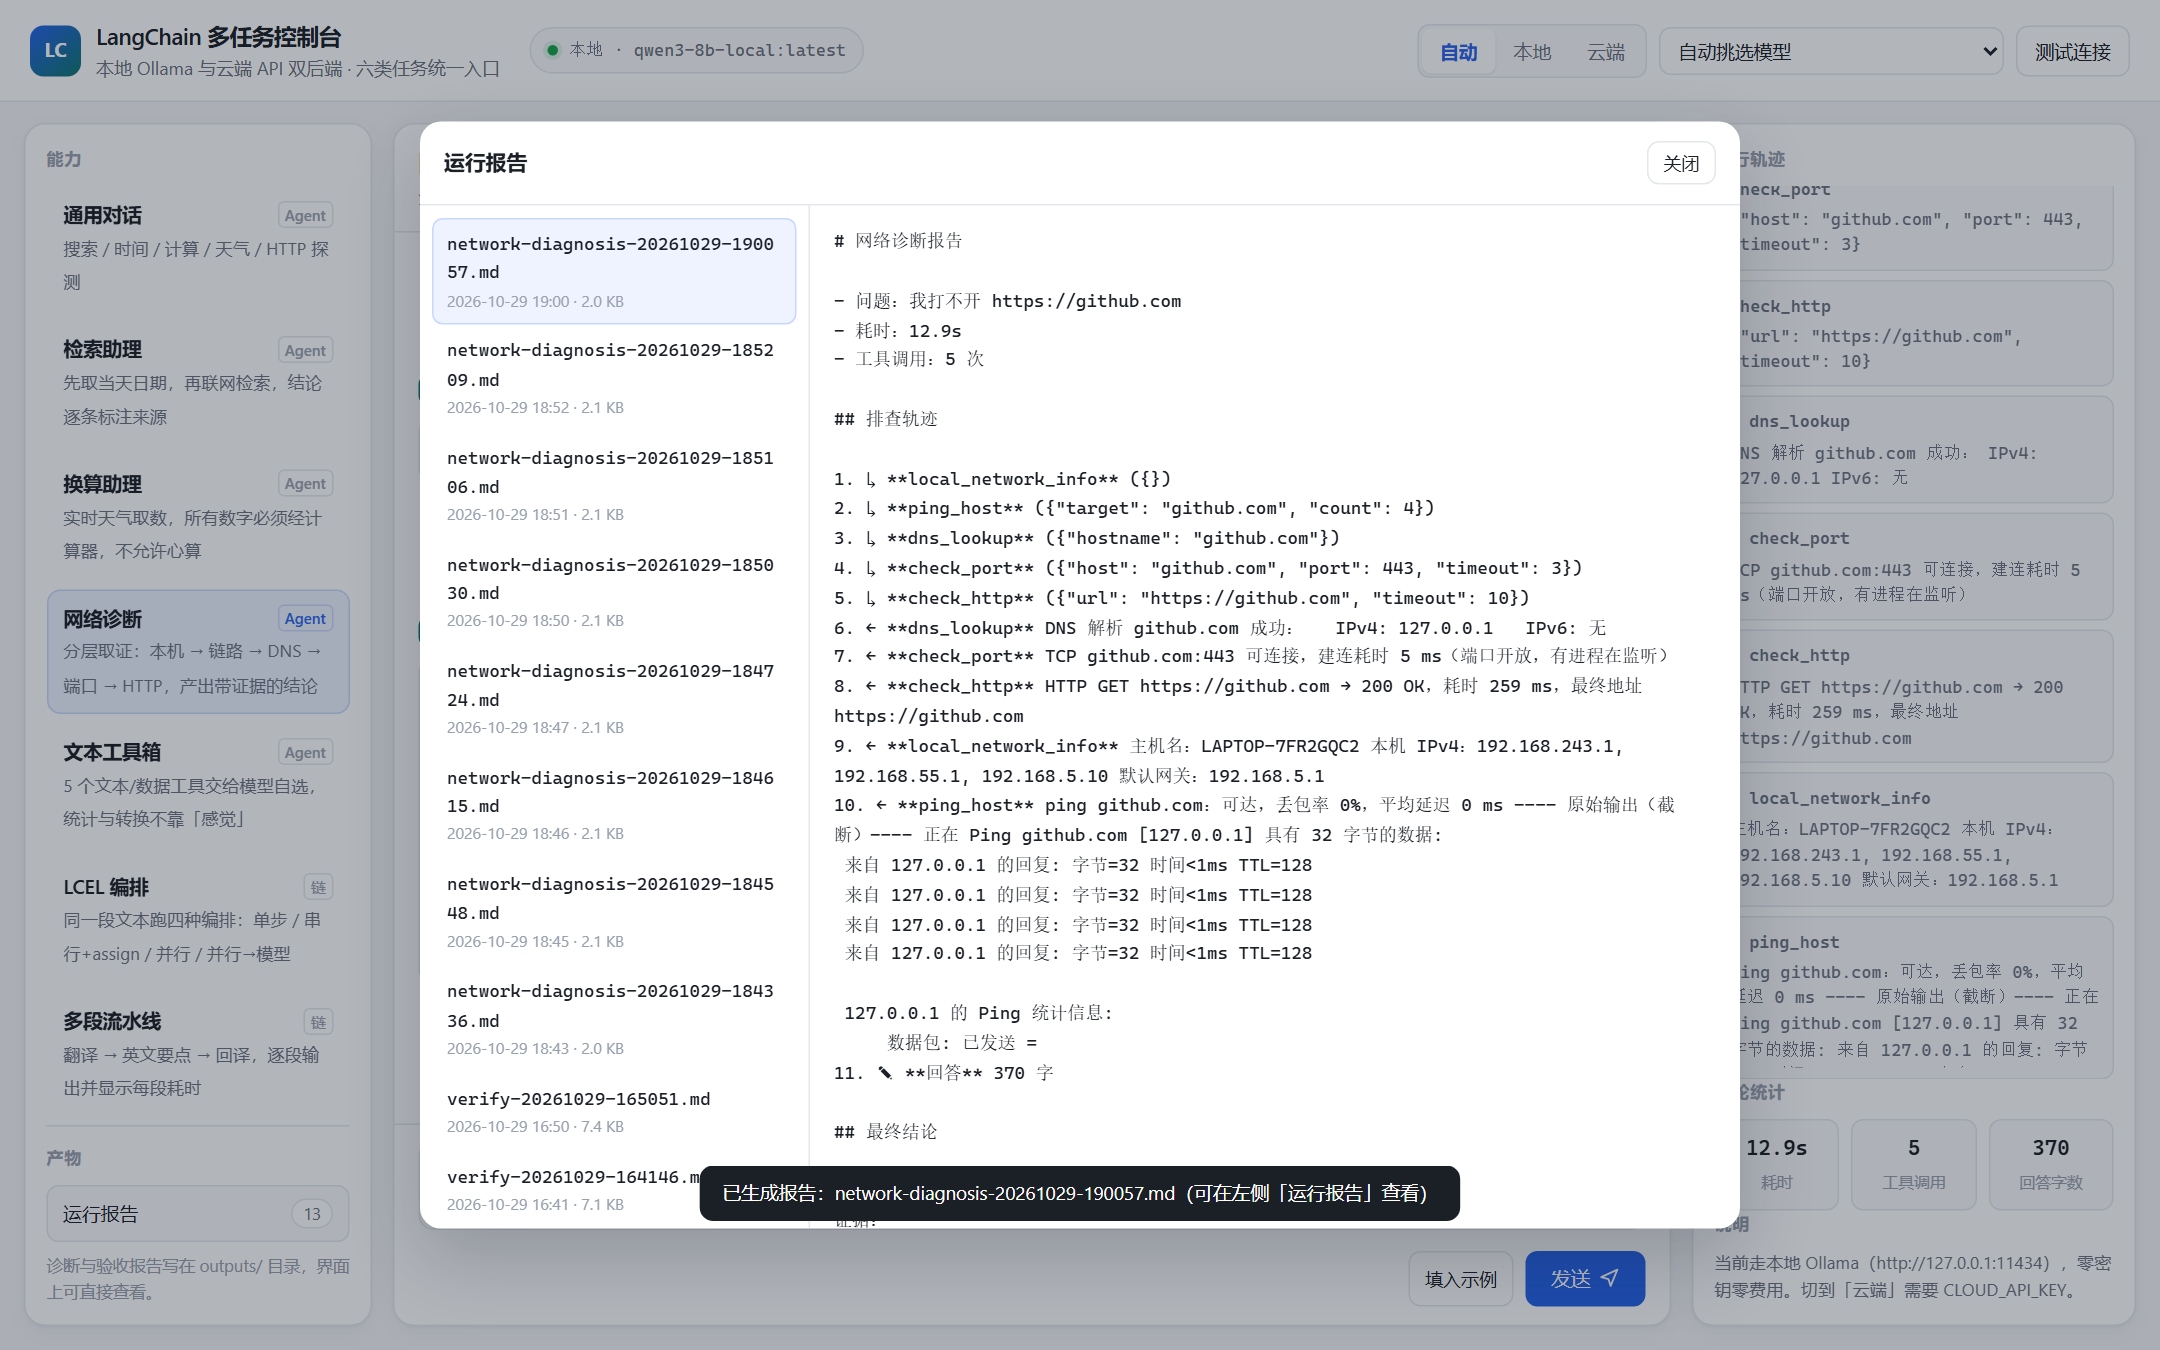
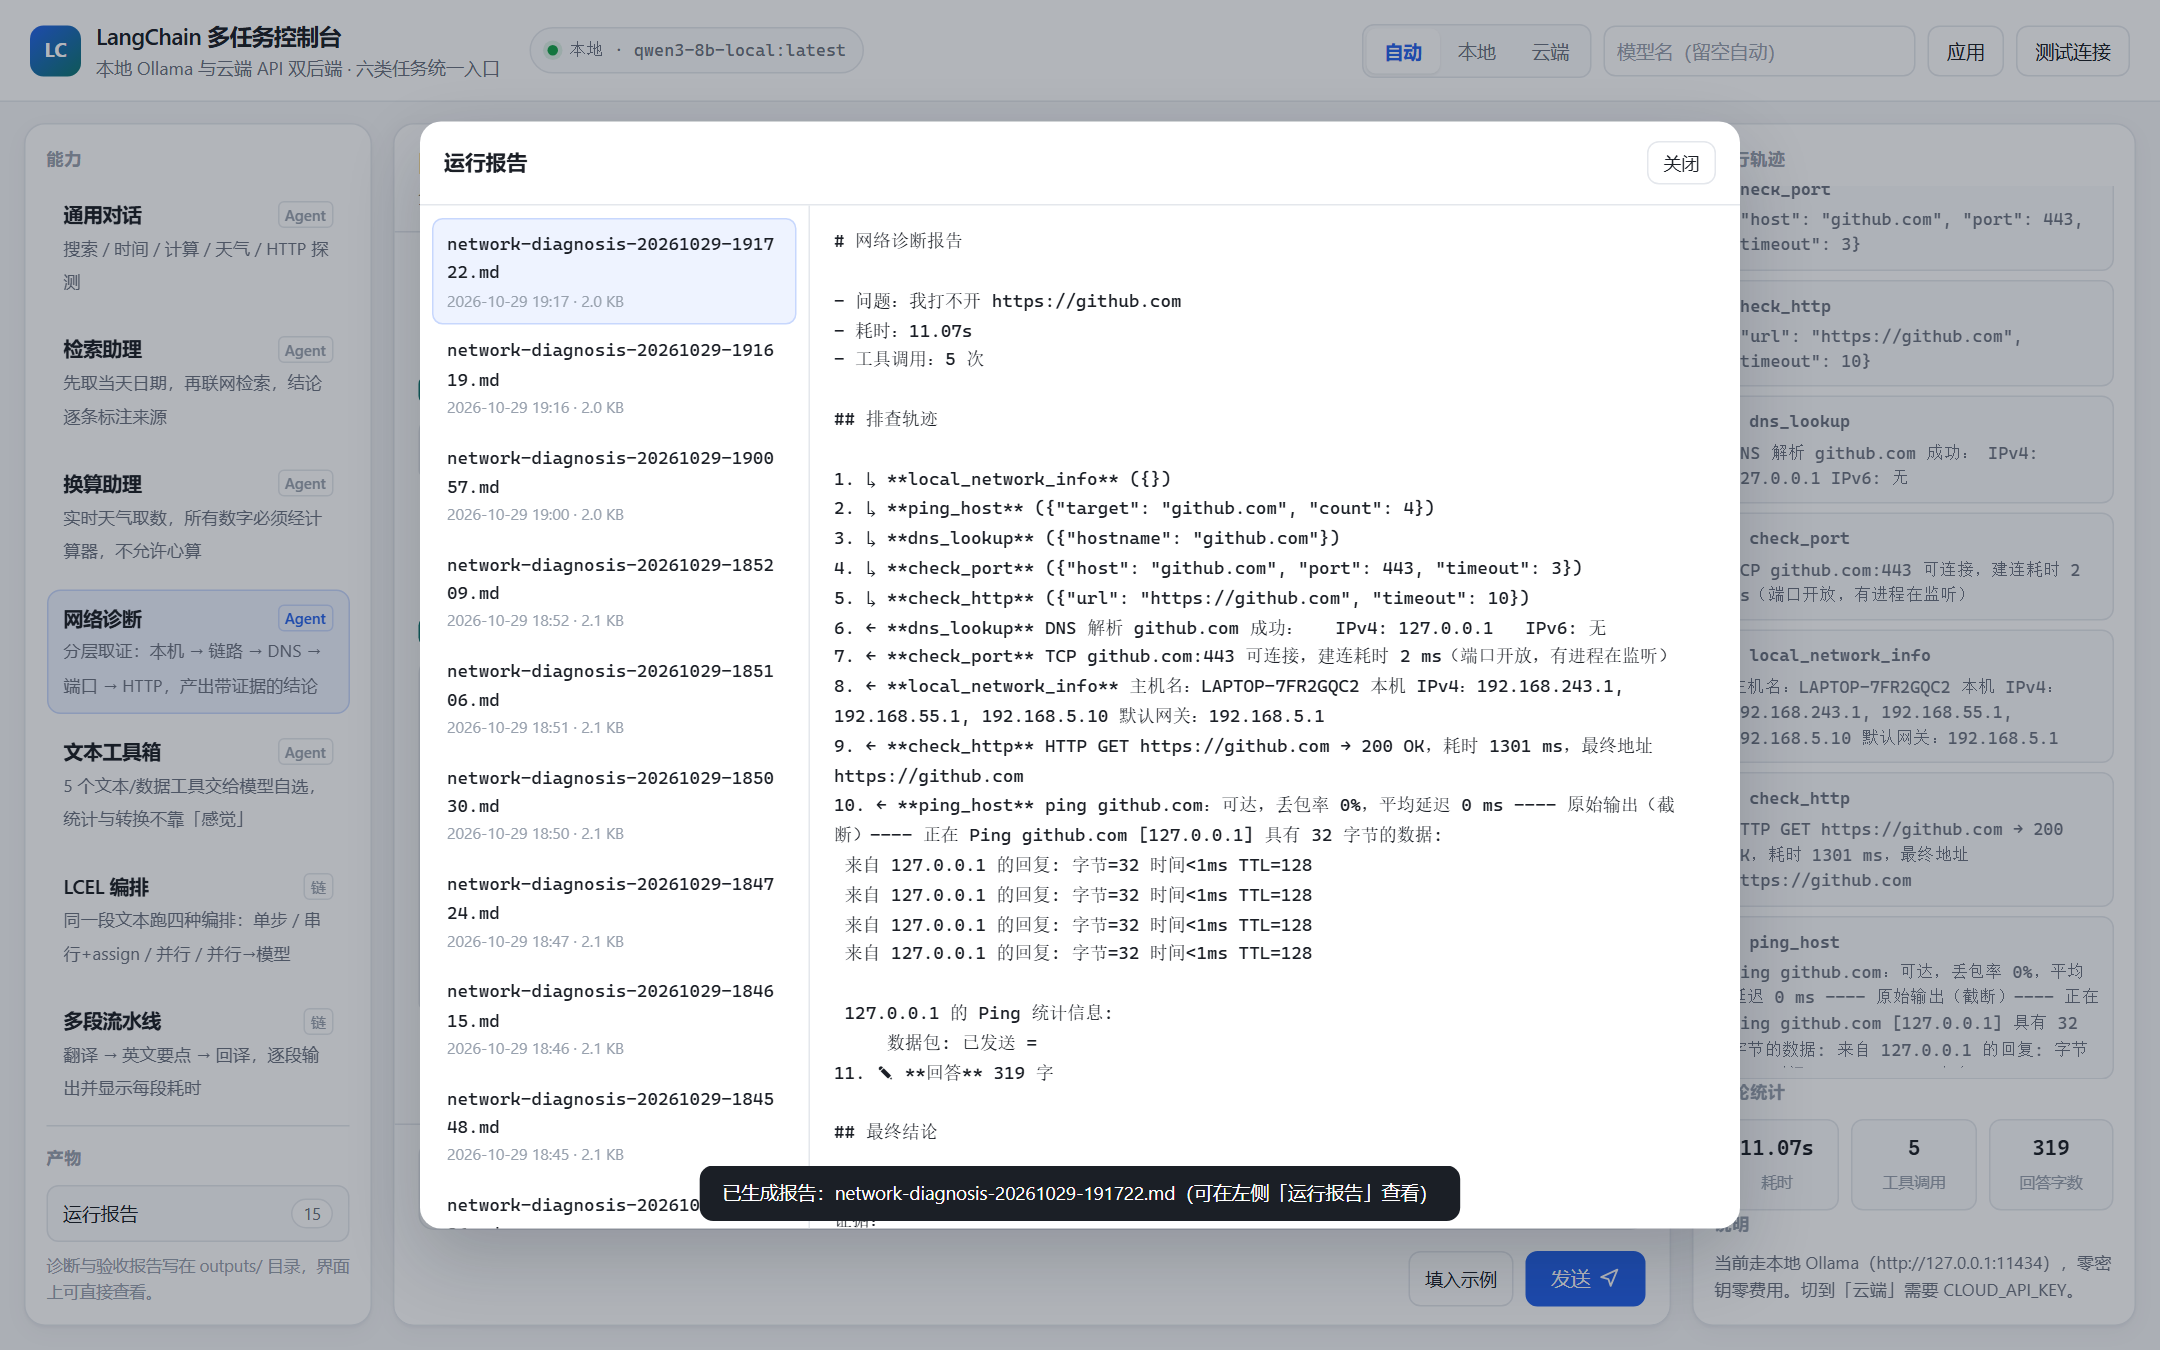
fix(web): 模型名支持手输，不再是只能从下拉里选
之前的问题是三层叠加：
1. select 只能选列表项，列表外模型名无法使用
2. 首屏不拉云端模型（探测云端要发网络请求），切到云端前候选为空
3. 请求体把 model 定义成非空 str，前端清空输入框发的 null 直接 422，
   表现为「清空模型名/切后端点了没反应」

改法：
- select → input + datalist：候选只作提示，手敲任意名字照用，回车/失焦/点应用都生效
- 候选分组标注来源（本地/云端/云端默认），上限 60 条
- 切换后端时清空模型名，避免本地名拿到云端 404
- ProviderRequest.model 改为 str | None，留空表示回到自动挑选
- 窄屏：输入框可伸缩、占位文案缩短，能力条由 150px 收到 124px

验证：108 passed（新增 3 条回归）+ 浏览器实测手输/回车/留空/切后端 5 步全过、0 console 错误

diff --git a/app/web/static/app.js b/app/web/static/app.js
@@ -68,43 +68,33 @@ function renderBackend(info) {
 }
 
 function fillModelOptions(info) {
-  const select = $("#modelSelect");
-  const keep = state.model || select.value || "";
-  const groups = [];
+  // 候选列表只是「提示」，不是白名单：用户手敲的名字一律照用，
+  // 敲错了由厂商返回 404，界面再翻译成人话 —— 比前端偷偷拦掉更诚实。
+  const list = $("#modelList");
+  const input = $("#modelInput");
+  const known = new Set();
 
   const local = (info.local_models || []).slice();
-  if (local.length) {
-    groups.push({ label: "本地 Ollama", items: local });
-  }
   const cloudModels = (info.cloud && info.cloud.models) || [];
-  if (cloudModels.length) {
-    // 云端模型动辄上百个，只挑常用对话模型，避免下拉框长得没法用
-    const preferred = cloudModels.filter((m) => /^(qwen|deepseek|kimi|glm|gpt)/i.test(m));
-    groups.push({ label: "云端 API", items: (preferred.length ? preferred : cloudModels).slice(0, 40) });
-  }
-  if (info.cloud && info.cloud.model) {
-    groups.push({ label: "云端默认", items: [info.cloud.model] });
-  }
+  const preferred = cloudModels.filter((m) => /^(qwen|deepseek|kimi|glm|gpt|moonshot)/i.test(m));
 
-  select.innerHTML = "";
-  const auto = document.createElement("option");
-  auto.value = "";
-  auto.textContent = "自动挑选模型";
-  select.appendChild(auto);
+  list.innerHTML = "";
+  const addOption = (value, label) => {
+    if (known.has(value)) return;
+    known.add(value);
+    const opt = document.createElement("option");
+    opt.value = value;
+    opt.label = label ? `${label}｜${value}` : value;
+    list.appendChild(opt);
+  };
 
-  groups.forEach((group) => {
-    const og = document.createElement("optgroup");
-    og.label = group.label;
-    group.items.forEach((name) => {
-      const opt = document.createElement("option");
-      opt.value = name;
-      opt.textContent = name;
-      og.appendChild(opt);
-    });
-    select.appendChild(og);
-  });
+  local.forEach((name) => addOption(name, "本地"));
+  (preferred.length ? preferred : cloudModels).slice(0, 60).forEach((name) => addOption(name, "云端"));
+  if (info.cloud && info.cloud.model) addOption(info.cloud.model, "云端默认");
 
-  if (keep && [...select.options].some((o) => o.value === keep)) select.value = keep;
+  // 占位固定成短句：当前用哪个模型顶栏徽标已经写了，占位里再塞一遍
+  // 只会在窄屏被截成「自动挑选（当前 qwen3-8b-loca」，反而更难读。
+  if (!state.model) input.value = "";
 }
 
 function renderProviderSwitch(info) {
@@ -524,6 +514,10 @@ function bind() {
       const provider = btn.dataset.provider;
       const before = state.provider;
       state.provider = provider;
+      // 换后端 = 换模型来源：本地的 `qwen3:8b` 拿到云端就是 404。
+      // 与其让用户撞上「切完就报错」，不如直接回到自动挑选，想指定再自己敲。
+      state.model = null;
+      if ($("#modelInput")) $("#modelInput").value = "";
       $$("#providerSwitch button").forEach((b) => b.classList.toggle("active", b === btn));
       try {
         const res = await requestJSON("/api/provider", {
@@ -542,19 +536,34 @@ function bind() {
     });
   });
 
-  $("#modelSelect").addEventListener("change", async (e) => {
-    state.model = e.target.value;
+  const modelInput = $("#modelInput");
+  const applyModel = async () => {
+    const name = modelInput.value.trim();
+    if (name === (state.model || "")) return;
+    state.model = name || null;
     try {
       const res = await requestJSON("/api/provider", {
         method: "POST",
         body: JSON.stringify({ provider: state.provider, model: state.model }),
       });
       toast(`模型已设为：${res.runtime_model || "自动挑选"}`);
-      await loadStatus(false);
+      // /api/provider 的字段叫 backend，renderBackend 认的是 backend_info，转一手
+      if (res.backend) renderBackend({ backend_info: res.backend });
     } catch (err) {
       toast(`设置模型失败：${err.message}`, true);
     }
+  };
+
+  // 手敲回车 / 从候选里点选 / 点「应用」，三个入口走同一条路
+  modelInput.addEventListener("keydown", (e) => {
+    if (e.key === "Enter") {
+      e.preventDefault();
+      modelInput.blur();
+      applyModel();
+    }
   });
+  modelInput.addEventListener("change", applyModel);
+  $("#btnApplyModel").addEventListener("click", applyModel);
 
   $("#btnTest").addEventListener("click", async () => {
     const btn = $("#btnTest");

diff --git a/app/web/static/index.html b/app/web/static/index.html
@@ -28,9 +28,21 @@
       <button type="button" data-provider="ollama">本地</button>
       <button type="button" data-provider="cloud">云端</button>
     </div>
-    <select id="modelSelect" class="model-select" title="选择模型（留空为自动挑选）">
-      <option value="">自动挑选模型</option>
-    </select>
+    <!-- 用 input + datalist 而不是 select：模型名不是固定枚举，
+         厂商随时会出新模型，用户也常要用列表里没有的名字。
+         既能从候选里点，也能直接手敲。留空 = 自动挑选。 -->
+    <input
+      type="text"
+      id="modelInput"
+      class="model-select"
+      list="modelList"
+      spellcheck="false"
+      autocomplete="off"
+      placeholder="模型名（留空自动）"
+      title="从候选里选，或直接输入任意模型名；回车生效，留空为自动挑选"
+    />
+    <datalist id="modelList"></datalist>
+    <button type="button" id="btnApplyModel" class="ghost" title="应用模型名">应用</button>
     <button type="button" id="btnTest" class="ghost">测试连接</button>
   </div>
 </header>

diff --git a/app/web/static/style.css b/app/web/static/style.css
@@ -148,7 +148,14 @@ p { margin: 0; }
   border-radius: 8px;
   background: var(--panel);
   color: var(--text);
+  width: 208px;
   max-width: 230px;
+}
+input.model-select::placeholder { color: var(--muted-soft); }
+input.model-select:focus {
+  outline: none;
+  border-color: var(--accent-border);
+  box-shadow: 0 0 0 3px var(--accent-soft);
 }
 
 button.ghost {
@@ -608,11 +615,13 @@ button.primary svg { margin-top: -1px; }
     overflow-y: hidden;
     padding-bottom: 2px;
   }
-  .task { flex: 0 0 auto; width: 150px; }
+  .task { flex: 0 0 auto; width: 124px; }
   .task .t-desc { display: none; }
   .tasks .tiny { display: none; }
   .topbar { gap: 10px; padding: 10px 12px; }
-  .controls { margin-left: 0; }
+  /* 窄屏顶栏要能换行：模型输入框允许收缩，否则占位文字被截成半句 */
+  .controls { margin-left: 0; flex-wrap: wrap; row-gap: 8px; }
+  .model-select { flex: 1 1 132px; width: auto; min-width: 0; max-width: none; }
   .modal-body { grid-template-columns: 1fr; }
   .report-list { max-height: 140px; border-right: 0; border-bottom: 1px solid var(--border); }
 }

diff --git a/tests/test_web.py b/tests/test_web.py
@@ -190,6 +190,37 @@ def test_provider_switch_rejects_unknown_value(client):
     assert "未知的后端" in res.json()["detail"]
 
 
+@pytest.mark.parametrize("payload", [{"provider": "cloud"}, {"provider": "cloud", "model": None}])
+def test_provider_switch_accepts_blank_model(client, payload):
+    """回归：请求体把 model 定义成非空 str 时，前端清空输入框发的 null 会 422，
+    表现是「切后端 / 清空模型名点了没反应」。留空表示回到自动挑选，必须合法。"""
+    res = client.post("/api/provider", json=payload)
+    assert res.status_code == 200, res.text
+    assert res.json()["runtime_model"] is None
+
+
+def test_any_user_typed_model_name_is_accepted(client, monkeypatch):
+    """模型名不是枚举：用户手敲的名字（包括候选列表里没有的）都要照收，
+    能不能用由厂商回答，前端不做白名单。"""
+    from app import llm
+
+    # probe 反映的是真实运行时状态，不是写死的字典 —— 否则测的是假数据
+    monkeypatch.setattr(
+        server,
+        "probe",
+        lambda cloud=False: {
+            "runtime_provider": llm.runtime_provider(),
+            "runtime_model": llm.runtime_model(),
+            "backend": "",
+            "backend_info": None,
+        },
+    )
+    res = client.post("/api/provider", json={"provider": "cloud", "model": "my-company-llm-v9"})
+    assert res.status_code == 200
+    assert res.json()["runtime_model"] == "my-company-llm-v9"
+    assert llm.runtime_model() == "my-company-llm-v9"
+
+
 def test_provider_switch_updates_runtime_state(client, monkeypatch):
     monkeypatch.setattr(
         server,

diff --git a/app/web/server.py b/app/web/server.py
@@ -61,7 +61,9 @@ class TaskRequest(BaseModel):
 
 class ProviderRequest(BaseModel):
     provider: str = Field(default="auto", max_length=16)
-    model: str = Field(default="", max_length=128)
+    # 必须允许 None：前端清空输入框时发的就是 null，表示「回到自动挑选」。
+    # 写成 str 会让这条请求直接 422，用户看到的是「切后端没反应」。
+    model: str | None = Field(default=None, max_length=128)
 
 
 # ---------------------------------------------------------------- SSE 封装

diff --git a/README.md b/README.md
@@ -283,9 +283,39 @@ openai.RateLimitError: Error code: 429 -
 | --- | --- | --- |
 | 配置文件 | `.env` 里改 `LLM_PROVIDER=auto/ollama/cloud` | 一次性定好，长期用 |
 | 命令行参数 | `python main.py --provider cloud --model deepseek-chat basic` | 临时对比两个后端的效果 |
-| 界面顶栏 | 点「自动 / 本地 / 云端」，再选模型 | 演示、调参、给人看 |
+| 界面顶栏 | 点「自动 / 本地 / 云端」，再填模型名 | 演示、调参、给人看 |
 
 优先级：`--provider` 参数 / 界面选择（运行时覆盖） > `.env.local` > 系统环境变量 > `.env`。
+
+### 模型名不是只能从列表里选
+
+这是容易被误解的一点，说清楚：**候选列表只是「提示」，不是白名单。**
+
+- **界面**：顶栏那个输入框既是下拉也是文本框。点开能看到候选（本地已装模型 + 云端 `/v1/models` 返回的），
+  但**直接敲任意名字也认**，回车即生效。想用 `qwen3-max`、厂商刚发布的模型、公司内网网关的自定义名字，
+  只要能对上后端，填进去就能用。
+- **命令行**：`python main.py --provider cloud --model 任意模型名 basic`
+- **配置文件**：`.env` 里 `CLOUD_MODEL=任意模型名`
+
+为什么不做成白名单？因为模型名本质是开放的：厂商每周都在上新，`/v1/models` 接口有的厂商干脆不提供，
+还有些兼容端点的模型名是用户自己起的。前端拿一个固定列表去拦，只会让「明明能用却点不到」。
+所以前端只做提示，**能不能用交给厂商回答** —— 名字写错会返回 404，`explain_error()` 会翻成
+「模型名不存在，用 `doctor` 看可用模型列表」，而不是丢一屏堆栈。
+
+两个配套细节：
+
+- **留空 = 自动挑选**。自动挑的规则见下面 `auto` 模式的判定顺序，当前实际用的模型显示在顶栏徽标上。
+- **切换后端会清空模型名**。本地的 `qwen3:8b` 拿到云端就是 404，与其让你撞上「切完就报错」，
+  不如切后端时直接回到自动挑选，想指定再自己填。
+
+云端候选是怎么来的：`python main.py doctor` 或界面点「测试连接」会调一次 `GET {CLOUD_BASE_URL}/models`，
+把返回的模型名列出来。本机实测百炼返回 184 个模型，界面按 `qwen/deepseek/kimi/glm/gpt/moonshot` 前缀
+筛出常用对话模型（最多 60 个）放进候选，避免下拉框长得没法看 —— 但这只是**筛选候选，不是限制输入**。
+
+![手输模型名](docs/ui-model-input.png)
+
+上图就是手敲 `qwen2.5-72b-instruct` 的效果：这个名字不在候选列表里，输入框里填进去、回车，
+徽标立刻变成 `云端 · qwen2.5-72b-instruct`。
 
 `auto` 模式的判定顺序：先探本地 Ollama 有没有可用对话模型 → 有就用本地 → 没有再看云端密钥 → 有就用云端 → 都没有才报 `LLMUnavailable`，并列出三条自救路径。
 
@@ -306,7 +336,8 @@ openai.RateLimitError: Error code: 429 -
 
 ![主界面](docs/ui-home.png)
 
-左边是六类能力，中间是对话，右边是执行轨迹（调了哪些工具、参数、返回值、每步耗时）。顶栏那三个按钮就是后端切换。
+左边是六类能力，中间是对话，右边是执行轨迹（调了哪些工具、参数、返回值、每步耗时）。
+顶栏「自动 / 本地 / 云端」三个按钮是后端切换，右边那个输入框是模型选择 —— 既能下拉选，也能直接敲名字。
 
 ![网络诊断](docs/ui-netdiag.png)
 
@@ -695,6 +726,7 @@ $ python -m pytest -q
 | 网络诊断 | 并发调 5 个工具、轨迹与统计一致、自动落盘报告 | ✅ |
 | 报告弹窗 | 列出 12 份产物，点开正文正确 | ✅ |
 | 后端切换 | 切「云端」徽标变 `云端 · qwen-turbo`，切回「自动」恢复本地 | ✅ |
+| 手输模型名 | 输入候选列表里没有的名字（含虚构名）→ 徽标即时变更；回车生效；留空回到自动；切后端自动清空 | ✅ |
 | 窄屏 420px | 能力条横向滑动、页面无横向溢出（scrollWidth 420 = clientWidth 420） | ✅ |
 
 **console 错误 0 条，未捕获异常 0 条。**
